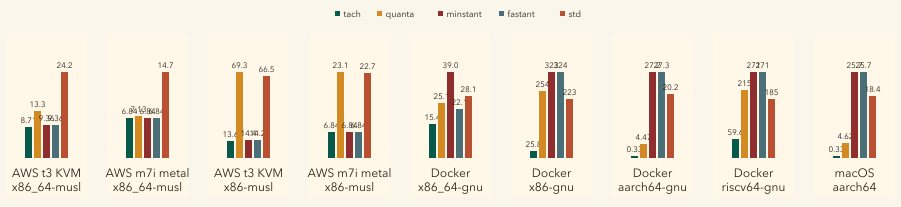
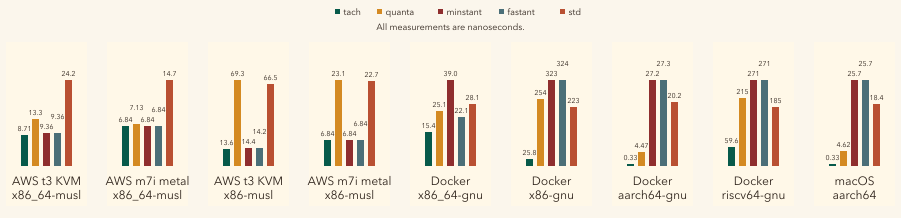
docs(readme): clarify benchmark chart units

diff --git a/benches/assets/render_benchmark.py b/benches/assets/render_benchmark.py
@@ -38,17 +38,18 @@ GROUPS = [
 ]
 
 BAR_WIDTH = 7
-BAR_GAP = 2
+BAR_GAP = 4
 GROUP_WIDTH = 81
 GROUP_GAP = 20
 LEFT = 6
-HEIGHT = 207
-LEGEND_Y = 17
-GROUP_TOP = 34
-GROUP_HEIGHT = 163
-BAR_BOTTOM = 158
+HEIGHT = 218
+LEGEND_Y = 15
+NOTE_Y = 30
+GROUP_TOP = 42
+GROUP_HEIGHT = 164
+BAR_BOTTOM = 166
 MAX_BAR_HEIGHT = 86
-VALUE_FONT_SIZE = 8
+VALUE_FONT_SIZE = 7
 LABEL_FONT_SIZE = 12
 
 
@@ -71,9 +72,12 @@ def text(x: float, y: float, value: str, size: int, anchor: str = "middle") -> s
   )
 
 
+def label_width(value: str) -> float:
+  return len(value) * VALUE_FONT_SIZE * 0.56
+
+
 def render_svg() -> str:
   width = LEFT * 2 + len(GROUPS) * GROUP_WIDTH + (len(GROUPS) - 1) * GROUP_GAP
-  chart_width = len(GROUPS) * GROUP_WIDTH + (len(GROUPS) - 1) * GROUP_GAP
   group_xs = [LEFT + i * (GROUP_WIDTH + GROUP_GAP) for i in range(len(GROUPS))]
   bars_width = len(CRATES) * BAR_WIDTH + (len(CRATES) - 1) * BAR_GAP
 
@@ -98,6 +102,7 @@ def render_svg() -> str:
       f'<text x="{x + 8:g}" y="{LEGEND_Y:g}" text-anchor="start" '
       f'font-family="{FONT}" font-size="9" fill="#2E231B">{esc(name)}</text>'
     )
+  parts.append(text(width / 2, NOTE_Y, "All measurements are nanoseconds.", 9))
 
   for group_x, (labels, values) in zip(group_xs, GROUPS):
     parts.append(
@@ -107,17 +112,29 @@ def render_svg() -> str:
 
     bar_x = group_x + (GROUP_WIDTH - bars_width) / 2
     group_max = max(values)
+    placed_labels = []
     for i, value in enumerate(values):
       height = max(2, round(value / group_max * MAX_BAR_HEIGHT))
       x = bar_x + i * (BAR_WIDTH + BAR_GAP)
       y = BAR_BOTTOM - height
       color = CRATES[i][1]
+      label = value_label(value)
+      label_x = x + BAR_WIDTH / 2
+      label_y = y - 4
+      width_estimate = label_width(label)
+      while any(
+        abs(label_x - other_x) < (width_estimate + other_width) / 2 + 1
+        and abs(label_y - other_y) < VALUE_FONT_SIZE + 3
+        for other_x, other_y, other_width in placed_labels
+      ):
+        label_y -= VALUE_FONT_SIZE + 3
+      placed_labels.append((label_x, label_y, width_estimate))
       parts.append(f'<rect x="{x:g}" y="{y:g}" width="{BAR_WIDTH}" height="{height}" fill="{color}"/>')
-      parts.append(text(x + BAR_WIDTH / 2, y - 4, value_label(value), VALUE_FONT_SIZE))
+      parts.append(text(label_x, label_y, label, VALUE_FONT_SIZE))
 
     center = group_x + GROUP_WIDTH / 2
-    parts.append(text(center, 177, labels[0], LABEL_FONT_SIZE))
-    parts.append(text(center, 191, labels[1], LABEL_FONT_SIZE))
+    parts.append(text(center, 185, labels[0], LABEL_FONT_SIZE))
+    parts.append(text(center, 199, labels[1], LABEL_FONT_SIZE))
 
   parts.append("</g>")
   parts.append("</svg>")

diff --git a/PROJECT.md b/PROJECT.md
@@ -8,6 +8,7 @@ tach provides a zero-dependency Rust API for reading fast CPU or platform tick c
 
 - [x] Fix macOS x86_64 self-patching call-target corruption
 - [x] Rename crate and GitHub repository to `tach`
+- [x] Double benchmark bar gaps and label nanosecond units
 - [x] Render benchmark bars with deterministic fixed spacing
 - [x] Tighten benchmark labels without widening bar groups
 - [x] Remove benchmark chart inter-bar gutters
